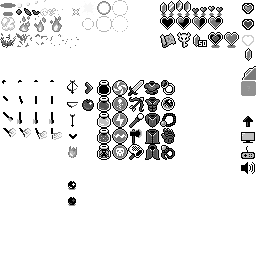
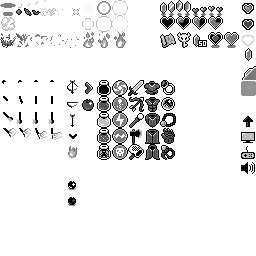
moved the ground fire particle sprites around in the main sheet. added ParticleFire to ObjType enum. updated GameObjAnimListManager with anim list for ParticleFire. updated GameObjFunctions.SetType with path for ParticleFire. added call to spawn FireParticle from death state of fireball projectile. 

Changed region(s): [[0.3125, 0.125, 0.5, 0.1875], [0.0625, 0.0625, 0.25, 0.125]]

diff --git a/DungeonRun/Classes/GameObjectFunctions.cs b/DungeonRun/Classes/GameObjectFunctions.cs
@@ -452,6 +452,14 @@ namespace DungeonRun
                 Obj.compAnim.speed = 6; //in frames
                 Obj.compAnim.loop = true;
             }
+            else if (Type == ObjType.ParticleFire)
+            {
+                Obj.compSprite.zOffset = 0;
+                Obj.group = ObjGroup.Particle;
+                Obj.lifetime = 24; //in frames
+                Obj.compAnim.speed = 6; //in frames
+                Obj.compAnim.loop = true;
+            }
             else if (Type == ObjType.ParticleReward50Gold ||
                 Type == ObjType.ParticleRewardKey ||
                 Type == ObjType.ParticleRewardMap ||
@@ -491,7 +499,8 @@ namespace DungeonRun
 
                     if (Obj.type == ObjType.ProjectileFireball)
                     {
-                        GameObjectFunctions.SpawnParticle(ObjType.ParticleExplosion, Obj.compSprite.position);
+                        SpawnParticle(ObjType.ParticleExplosion, Obj.compSprite.position);
+                        SpawnParticle(ObjType.ParticleFire, Obj.compSprite.position);
                         Assets.sfxFireballDeath.Play();
                     }
 

diff --git a/DungeonRun/Classes/InteractionFunctions.cs b/DungeonRun/Classes/InteractionFunctions.cs
@@ -259,10 +259,6 @@ namespace DungeonRun
             //Projectile could = Obj!, if comparing Projectile to Obj in ProjectilePool
             //no blocking checks have been done yet
 
-            //if a projectile collides with something, the projectile may get destroyed (end of lifetime)
-            //Obj.lifeCounter = Obj.lifetime; //end the projectiles life
-            //create an explosion effect here
-
             if(Obj.compCollision.blocking) //is the colliding object blocking?
             {
                 if (Projectile.type == ObjType.ProjectileFireball)
@@ -270,10 +266,6 @@ namespace DungeonRun
                     Projectile.lifeCounter = Projectile.lifetime; //kill fireball
                 }
             }
-            
-
-
-
         }
 
     }

diff --git a/DungeonRun/Classes/GameObjectAnimListManager.cs b/DungeonRun/Classes/GameObjectAnimListManager.cs
@@ -169,6 +169,8 @@ namespace DungeonRun
                 new List<Byte4> { new Byte4(5, 0, 0, 0), new Byte4(6, 0, 0, 0), new Byte4(7, 0, 0, 0) },
                 //ParticleHitSparkle
                 new List<Byte4> { new Byte4(8, 1, 0, 0), new Byte4(9, 1, 0, 0) },
+                //ParticleFire
+                new List<Byte4> { new Byte4(5, 2, 0, 0), new Byte4(6, 2, 0, 0), new Byte4(7, 2, 0, 0) },
 
                 //ParticleReward50Gold
                 new List<Byte4> { new Byte4(12, 2, 0, 0) },

diff --git a/DungeonRun/Classes/Enumerators.cs b/DungeonRun/Classes/Enumerators.cs
@@ -53,6 +53,7 @@ namespace DungeonRun
         ProjectileSword, ProjectileFireball,
         //Particles
         ParticleDashPuff, ParticleExplosion, ParticleSmokePuff, ParticleHitSparkle,
+        ParticleFire,
         //Reward Particles
         ParticleReward50Gold, ParticleRewardKey, ParticleRewardMap,
         ParticleRewardHeartPiece, ParticleRewardHeartFull,
